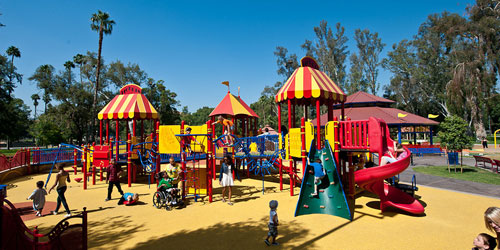
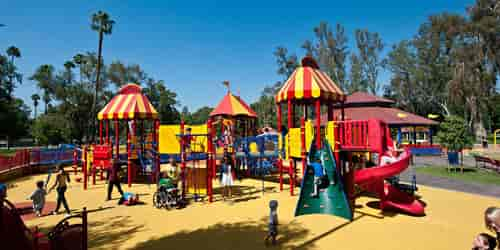
Added about page, optimized images, changed page name

diff --git a/client/views/pages/About.html b/client/views/pages/About.html
@@ -1,3 +1,16 @@
 <template name="About">
-  <h1>Hello ABOUT</h1>
+  <div class="container">
+    <h1 class="section-header text-center">QUIENES SOMOS</h1>
+    <hr class="star-light">
+    <p class="text-center mission">Nuestra misión para República de Niños es simple, ser el lugar donde padres Colombianos vienen a buscar los eventos que están sucediendo en su ciudad.</p>
+    <p class="text-center mission">Esperamos este sitio les sea de ayuda y no duden en contactarnos con sus comentarios y sugerencias -- <a href="smeloa@yahoo.com" class="contact-email">CONTACTO</a></p>
+    <h3 class="section-header text-center section-small">QUE TENEMOS PLANEADO</h3>
+    <ul class="list-group text-center col-lg-6 col-lg-offset-3">
+      <li class="list-group-item">Pagina para colegios y jardines</li>
+      <li class="list-group-item">Resenas y recomendaciones para cada actividad/colegio/servicio</li>
+      <li class="list-group-item">Actividad destaca de la semana</li>
+      <li class="list-group-item">Espacios para promocionar actividades</li>
+      <li class="list-group-item">Pagina para servicios</li>
+    </ul>
+  </div>
 </template>

diff --git a/lib/routes.js b/lib/routes.js
@@ -5,26 +5,26 @@ FlowRouter.route('/', {
 	}
 });
 
-FlowRouter.route('/actividades', {
-	name: 'actividades',
-	action() {
-		BlazeLayout.render('HomeLayout', {main: 'Actividades'});
-	}
-});
-
-FlowRouter.route('/jardines', {
-	name: 'jardines',
-	action() {
-		BlazeLayout.render('HomeLayout', {main: 'Jardines'});
-	}
-});
-
-FlowRouter.route('/colegios', {
-	name: 'colegios',
-	action() {
-		BlazeLayout.render('HomeLayout', {main: 'Colegios'});
-	}
-});
+// FlowRouter.route('/actividades', {
+// 	name: 'actividades',
+// 	action() {
+// 		BlazeLayout.render('HomeLayout', {main: 'Actividades'});
+// 	}
+// });
+//
+// FlowRouter.route('/jardines', {
+// 	name: 'jardines',
+// 	action() {
+// 		BlazeLayout.render('HomeLayout', {main: 'Jardines'});
+// 	}
+// });
+//
+// FlowRouter.route('/colegios', {
+// 	name: 'colegios',
+// 	action() {
+// 		BlazeLayout.render('HomeLayout', {main: 'Colegios'});
+// 	}
+// });
 
 FlowRouter.route('/about', {
 	name: 'about',

diff --git a/client/views/common/Jumbotron.html b/client/views/common/Jumbotron.html
@@ -1,8 +1,8 @@
 <template name="Jumbotron">
   <div class="jumbotron">
     <div class="container">
-      <h1>¿NO TIENES UN PLAN?</h1>
-      <p>No te preocupes, aca encontraras todo lo que puedes hacer en tu ciudad con tus hijos</p>
+      <h1>DESCUBRE Y EXPLORA TU CIUDAD</h1>
+      <p>Encuentra acá todas las actividades que tu ciudad te brinda para hacer con tus hijos</p>
       <!-- <p>
         <a href="" class="btn btn-primary btn-lg">ver actividades</a>
       </p> -->

diff --git a/client/views/common/Footer.html b/client/views/common/Footer.html
@@ -8,7 +8,7 @@
     </div>
     <div class="footer-left pull-left">
       <p class="created">Padre Colombiano &copy; 2015</p>
-      <p class="created">Pagina creada por: <a href="https://github.com/smeloa">Santiago Melo</a></p>
+      <p class="created">Pagina creada por: <a href="smeloa@yahoo.com" class="contact-email">SANTIAGO MELO</a></p>
     </div>
   </footer>
 </template>

diff --git a/client/views/common/NavBar.html b/client/views/common/NavBar.html
@@ -9,7 +9,7 @@
           <span class="icon-bar"></span>
           <span class="icon-bar"></span>
         </button>
-        <a class="navbar-brand" href="/">PADRE COLOMBIANO</a>
+        <a class="navbar-brand" href="/">REPÚBLICA DE NIÑOS</a>
       </div>
 
       <!-- Collect the nav links, forms, and other content for toggling -->

diff --git a/index.html b/index.html
@@ -1,3 +1,3 @@
 <head>
-  <title>Padres en Colombia</title>
+  <title>República de Niños</title>
 </head>
